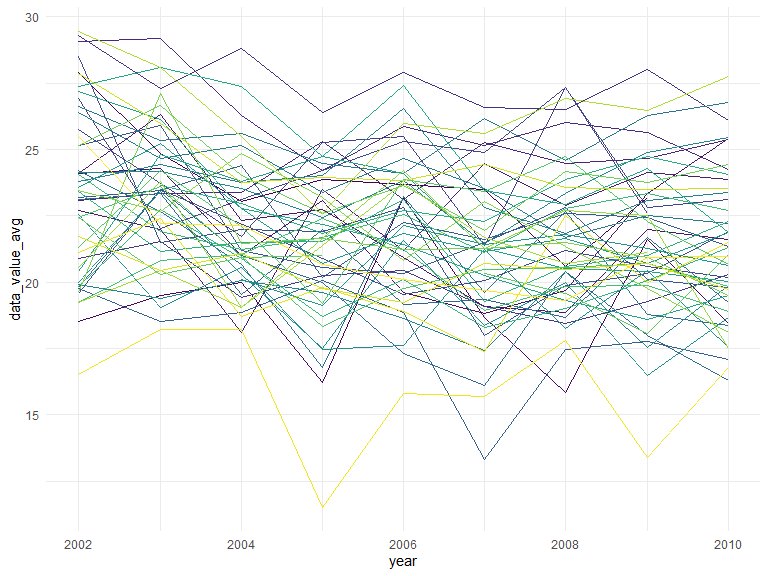
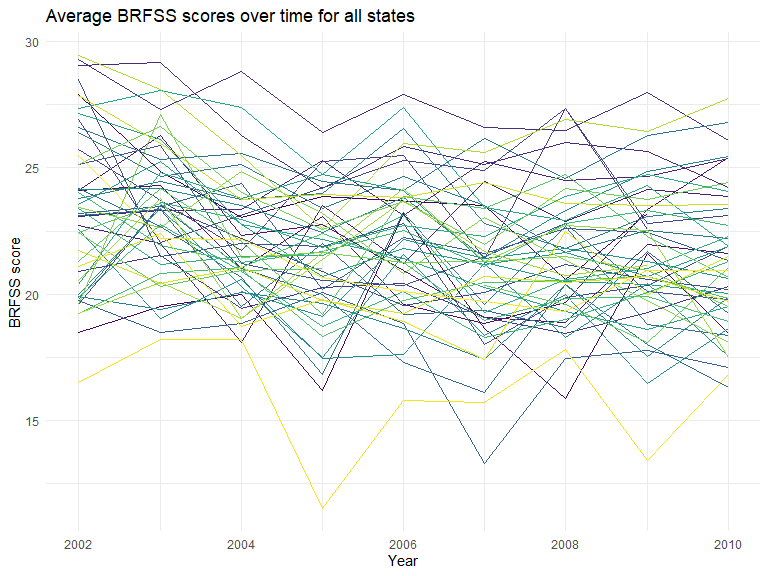
Clean up file

diff --git a/p8105_hw3_jfh2150.md b/p8105_hw3_jfh2150.md
@@ -172,18 +172,6 @@ Mean hour of the day of product purcase
 
 ## Problem 2
 
-This problem uses the BRFSS data. DO NOT include this dataset in your
-local data directory; instead, load the data from the p8105.datasets
-package.
-
-First, do some data cleaning:
-
-  - format the data to use appropriate variable names;
-  - focus on the “Overall Health” topic
-  - include only responses from “Excellent” to “Poor”
-  - organize responses as a factor taking levels ordered from “Poor” to
-    “Excellent”
-
 The chunk below loads and processes the BRFSS data. I clean the names
 using the `janitor` package and filter to only “Overall Health”
 observations and parse the response field as a factor.
@@ -203,12 +191,6 @@ brfss_smart2010 = brfss_smart2010 %>%
   mutate(response = response %>% 
            factor(levels = c("Poor", "Fair", "Good", "Very good", "Excellent"))) 
 ```
-
-Using this dataset, do or answer the following (commenting on the
-results of each):
-
-  - In 2002, which states were observed at 7 or more locations? What
-    about in 2010?
 
 In 2002, Connecticut, Florida, Massachusetts, North Carolina, New
 Jersey, and Pennsylvania were observed at 7 or more locations.
@@ -269,13 +251,6 @@ brfss_smart2010 %>%
     ## 13 TX           
     ## 14 WA
 
-  - Construct a dataset that is limited to Excellent responses, and
-    contains, year, state, and a variable that averages the data\_value
-    across locations within a state. Make a “spaghetti” plot of this
-    average value over time within a state (that is, make a plot showing
-    a line for each state across years – the geom\_line geometry and
-    group aesthetic will help).
-
 The spaghetti plot seems to indicate a downward trend in data\_value
 overall, with a lot of variation. The wide band of the plot begins
 between 30 and 20 in 2002, and ends around 27 and 17 in 2010. The
@@ -288,7 +263,6 @@ BRFSS scored their survey responses or the populations that were
 surveyed.
 
 ``` r
-# create a variable that averages the data_value across locations within a state
 brfss_smart2010 %>% 
   filter(response == "Excellent") %>% 
   group_by(location_abbr, year) %>% 
@@ -297,14 +271,13 @@ brfss_smart2010 %>%
   ungroup() %>% 
   ggplot(aes(x = year, y = data_value_avg)) +
   geom_line(aes(group = location_abbr, color = location_abbr)) +
-  theme(legend.position = "none")
+  theme(legend.position = "none") +
+  labs(title = "Average BRFSS scores over time for all states",
+       x = "Year", 
+       y = "BRFSS score")
 ```
 
 <img src="p8105_hw3_jfh2150_files/figure-gfm/unnamed-chunk-8-1.png" width="90%" />
-
-  - Make a two-panel plot showing, for the years 2006, and 2010,
-    distribution of data\_value for responses (“Poor” to “Excellent”)
-    among locations in NY State
 
 Between 2006 and 2010, it appears the the scores increased for
 “Excellent”, “Very good”, and “Good” responses. The distribution of
@@ -326,26 +299,6 @@ brfss_smart2010 %>%
 <img src="p8105_hw3_jfh2150_files/figure-gfm/unnamed-chunk-9-1.png" width="90%" />
 
 ## Problem 3
-
-Accelerometers have become an appealing alternative to self-report
-techniques for studying physical activity in observational studies and
-clinical trials, largely because of their relative objectivity. During
-observation periods, the devices measure “activity counts” in a short
-period; one-minute intervals are common. Because accelerometers can be
-worn comfortably and unobtrusively, they produce around-the-clock
-observations.
-
-This problem uses five weeks of accelerometer data collected on a 63
-year-old male with BMI 25, who was admitted to the Advanced Cardiac Care
-Center of Columbia University Medical Center and diagnosed with
-congestive heart failure (CHF). The data can be downloaded here. In this
-spreadsheet, variables activity.\* are the activity counts for each
-minute of a 24-hour day starting at midnight.
-
-Load, tidy, and otherwise wrangle the data. Your final dataset should
-include all originally observed variables and values; have useful
-variable names; include a weekday vs weekend variable; and encode data
-with reasonable variable classes.
 
 ``` r
 # read and tidy accelerometer data
@@ -379,25 +332,6 @@ df_accel = read_csv("Data/accel_data.csv") %>%
 
     ## See spec(...) for full column specifications.
 
-``` r
-# check mapping of weekend indicator
-df_accel %>% count(day, is_weekend)
-```
-
-    ## # A tibble: 7 x 3
-    ##   day       is_weekend     n
-    ##   <fct>          <dbl> <int>
-    ## 1 Sunday             1  7200
-    ## 2 Monday             0  7200
-    ## 3 Tuesday            0  7200
-    ## 4 Wednesday          0  7200
-    ## 5 Thursday           0  7200
-    ## 6 Friday             0  7200
-    ## 7 Saturday           1  7200
-
-{Describe the resulting dataset (e.g. what variables exist, how many
-observations, etc).}
-
 The tidied accelerometer dataset comprises 6 columns and 50400 rows of
 activity count observations on 1 patient over 35 days.
 
@@ -416,11 +350,6 @@ There is also a `day_id` that ranges from 1 to 35 and would seem to
 indicate the of the study, but it does not line up sequentially with the
 provided `day` column because the characters are sorted alphbetically,
 not in week sequence.
-
-Traditional analyses of accelerometer data focus on the total activity
-over the day. Using your tidied dataset, aggregate accross minutes to
-create a total activity variable for each day, and create a table
-showing these totals. Are any trends apparent?
 
 Activity seems lowest on Saturday, particularly during the last 2 weeks
 of the study. Friday and Wednesday have the highest activity averages,
@@ -461,19 +390,9 @@ wake up around 6 am. Furthermore, he engages in the most physical
 activity between 9 am and 1 pm, and 7 pm and 10 pm.
 
 ``` r
-summary(df_accel$activity)
-```
-
-    ##    Min. 1st Qu.  Median    Mean 3rd Qu.    Max. 
-    ##     1.0   360.8   720.5   720.5  1080.2  1440.0
-
-``` r
 df_accel %>% 
-  #filter(day_id %in% c(1, 2)) %>% 
   ggplot(aes(x = activity, y = value)) +
   geom_line(aes(color = day)) +
-  # scale_y_continuous(limits = c(-100, 7000)) +
-  #theme(legend.position = "none")
   scale_x_continuous(breaks = seq(0, 1500, 180),
                      labels = c("12am", "3am", "6am", "9am", "12pm", "3pm", "6pm", "9pm", "!2am")) +
   labs(title = "Accelerometer data over 24 hour period for 35 days",
